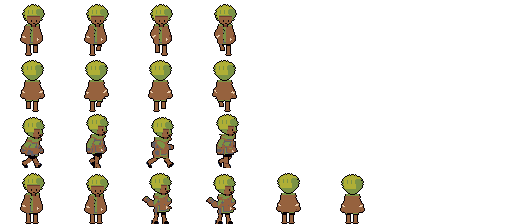
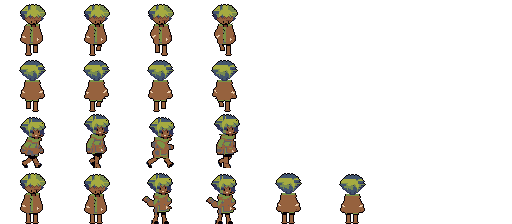
NPC: kepala bergaya MC (tekstur helai & bayangan rambut serta wajah diambil dari kepala MC)
Claude-Session: https://claude.ai/code/session_013SaXTJuwinpA9vu4txrWbT

diff --git a/tools/npc_heads.py b/tools/npc_heads.py
@@ -13,11 +13,25 @@ SKIN = {  # warna kulit (terang, bayangan)
 }
 # geometri kepala baru pada frame diam tiap arah (koordinat sel 64×56)
 GEO = {
-    'd': dict(cx=33.5, cy=17.0, rx=8.6, ry=8.6, chin=25, eyes=[(31, 21), (36, 21)], mouth=(34, 24), idle=(0, 0)),
-    's': dict(cx=32.5, cy=16.5, rx=8.4, ry=8.2, chin=24, eyes=[(37, 20)], mouth=(39, 23), idle=(0, 4)),
-    'u': dict(cx=32.5, cy=16.5, rx=8.6, ry=8.4, chin=24, eyes=[], mouth=None, idle=(0, 2)),
+    'd': dict(cx=33.0, cy=16.8, rx=10.2, ry=8.6, chin=25, eyes=[(31, 21), (36, 21)], mouth=(34, 24), idle=(0, 0)),
+    's': dict(cx=32.0, cy=16.5, rx=9.6, ry=8.4, chin=24, eyes=[(37, 20)], mouth=(39, 23), idle=(0, 4)),
+    'u': dict(cx=32.5, cy=16.5, rx=10.0, ry=8.4, chin=24, eyes=[], mouth=None, idle=(0, 2)),
 }
-HEAD_ROWS = (6, 25)   # baris kepala MC (frame diam)
+HEAD_ROWS = (6, 25)
+# ramp rambut gaya tokoh utama: terang, tengah (helai), bayangan, tergelap — bayangan agak kebiruan seperti rambut MC
+RAMP = {
+    'zaitun': ((166, 171, 64), (120, 139, 79), (67, 85, 109), (48, 52, 88)),
+    'coklat': ((150, 98, 62), (112, 59, 46), (84, 25, 32), (48, 52, 88)),
+    'oranye': ((207, 115, 69), (163, 41, 28), (84, 25, 32), (48, 52, 88)),
+    'merah': ((177, 39, 26), (163, 41, 28), (84, 25, 32), (48, 52, 88)),
+    'mawar': ((172, 74, 74), (145, 96, 80), (84, 25, 32), (48, 52, 88)),
+    'krem': ((237, 214, 187), (176, 172, 168), (98, 96, 104), (67, 85, 109)),
+    'abu': ((176, 172, 168), (145, 140, 140), (98, 96, 104), (67, 85, 109)),
+    'kulit': ((240, 194, 113), (207, 115, 69), (145, 96, 80), (84, 25, 32)),
+    'birutua': ((67, 85, 109), (45, 49, 97), (48, 52, 88), (6, 1, 5)),
+    'hitam': ((48, 52, 88), (45, 49, 97), (6, 1, 5), (6, 1, 5)),
+    'hijau': ((123, 147, 69), (120, 139, 79), (67, 85, 109), (48, 52, 88)),
+}   # baris kepala MC (frame diam)
 
 _A = np.array(Image.open(MC).convert('RGBA'))
 _IDLE = {}
@@ -45,7 +59,7 @@ def find_offset(a, facing):
 
 def ell(x, y, cx, cy, rx, ry):
     if y + 0.5 > cy:
-        rx *= 0.9
+        rx *= 1.0 - 0.28 * min(1.0, (y + 0.5 - cy) / ry * 1.4)
     return ((x + 0.5 - cx) / rx) ** 2 + ((y + 0.5 - cy) / ry) ** 2 <= 1.0
 
 
@@ -54,6 +68,8 @@ def build_head(o, facing):
     g = GEO[facing]
     cx, cy, rx, ry, chin = g['cx'], g['cy'], g['rx'], g['ry'], g['chin']
     hl, hd = (np.array((*c, 255), np.uint8) for c in o['_rambut'])
+    ramp = [np.array((*c, 255), np.uint8) for c in RAMP.get(o['rambut'][0], (o['_rambut'][0], o['_rambut'][1], (67, 85, 109), (48, 52, 88)))]
+    hl, hd = ramp[0], ramp[2]
     sk, sks = (np.array((*c, 255), np.uint8) for c in SKIN[o.get('kulit', 'terang')])
     st = o.get('gaya_rambut', 'poni')
     H, W = 56, 64
@@ -76,35 +92,37 @@ def build_head(o, facing):
         rel = (x + 0.5 - cx)
         edge = abs(rel) > rx - 2.2
         if st == 'poni':
-            return 23 if edge else 19
+            return 24 if edge else 20
         if st == 'belah':
-            return 23 if edge else int(16 + max(0.0, -rel) * 0.45)
+            return 24 if edge else int(17 + max(0.0, -rel) * 0.4)
         if st == 'cepak':
-            return 18 if edge else 14
+            return 19 if edge else 15
         if st == 'jabrik':
-            return 22 if edge else 18 + (int(x) % 3 == 0)
+            return 23 if edge else 19 + (int(x) % 3 == 0)
         if st in ('panjang', 'kuncir'):
-            return 24 if edge else (16 if abs(rel) < 1 else 18)
+            return 25 if edge else (17 if abs(rel) < 1 else 19)
         if st == 'sanggul':
-            return 21 if edge else 15
+            return 23 if edge else 18
         if st == 'keriting':
             return 22 if edge else 17
         if st == 'botak':
             return 20 if edge else 0
         return 19
+    def tooth(x):
+        return 0 if st in ('cepak', 'botak', 'sanggul') else (2 - abs(int(x) % 4 - 2))
     if facing == 'u':
         hair[:] = skull
         if st == 'botak':
             hair &= (yy > cy - 1)
     elif facing == 'd':
         for x in range(W):
-            hair[:, x] = skull[:, x] & (yy[:, x] < hairline(x))
+            hair[:, x] = skull[:, x] & (yy[:, x] < hairline(x) + tooth(x))
         if st == 'botak':
             hair &= (abs(xx + 0.5 - cx) > rx - 2.5) & (yy > cy - 2) & (yy < cy + 5)
     else:   # samping: rambut menutup belakang kepala; depan = wajah
         front = cx - 1.0
         for x in range(W):
-            hlx = hairline(x) if x + 0.5 > front else 99
+            hlx = hairline(x) + tooth(x) if x + 0.5 > front else 99
             hair[:, x] = skull[:, x] & (yy[:, x] < hlx)
         if st == 'botak':
             hair &= (xx + 0.5 < cx) & (yy > cy - 2) & (yy < cy + 5)
@@ -156,30 +174,41 @@ def build_head(o, facing):
     hair |= extra
     out = np.zeros((H, W, 4), np.uint8)
     face = skull & ~hair
+    # --- tekstur dipindah dari kepala MC: rambut memakai pola helai & bayangan MC, wajah memakai wajah MC ---
+    mc, _ = _IDLE[facing]
+    mrgb = mc[..., :3]; mal = mc[..., 3] > 0
+    meq = lambda c: (mrgb == c).all(-1) & mal
+    tone = np.full((H, W), -1, int)
+    for t, c in enumerate(((166, 171, 64), (120, 139, 79), (67, 85, 109), (48, 52, 88))):
+        tone[meq(c)] = t
+    tone[:HEAD_ROWS[0]] = -1
+    tone[chin + 1:] = -1
+    L0, L1, L2, L3 = ramp
+    tfull = tone.copy()
+    for y in range(H):
+        for x in range(W):
+            if tfull[y, x] < 0 and y < chin + 12:
+                yr = min(max(y, int(top_y) + 1), chin)
+                cand = [(abs(xx2 - x) + abs(yy2 - y) * 2, tone[yy2, xx2]) for yy2 in range(max(0, yr - 3), yr + 4)
+                        for xx2 in range(max(0, x - 6), min(W, x + 7)) if tone[yy2, xx2] >= 0]
+                tfull[y, x] = min(cand)[1] if cand else (0 if y < cy else 2)
+    for y, x in zip(*np.nonzero(hair)):
+        out[y, x] = ramp[max(0, tfull[y, x])]
+    msk = meq((233, 185, 110)); mks = meq((183, 115, 79))
     out[face] = sk
-    # bayangan wajah: di bawah rambut & sisi kanan
-    under = face & np.roll(hair, 1, 0)
-    out[under] = sks
-    if facing == 'd':
-        out[face & (xx + 0.5 > right - 1.5)] = sks
-    out[hair] = hl
-    hb = hair & ~np.roll(hair, -1, 0)                       # tepi bawah rambut
-    out[hb] = hd
-    shade = hair & (xx + 0.5 > cx + rx * 0.4) & (yy > top_y + 1)       # sisi kanan gelap (cahaya dari kiri atas)
-    out[shade] = hd
-    out[hair & (yy > cy + 3)] = hd
-    if st == 'cepak':
-        out[hair] = hd
-        out[hair & (yy < cy - 3) & (xx + 0.5 < cx + 2)] = hl
-    # helai rambut: garis pendek gelap di bagian terang
-    strands = hair & (yy > top_y + 2) & (yy < top_y + 6) & ((xx - int(cx) + 1) % 4 == 0) & ~shade
-    out[strands] = hd
+    out[face & mks] = sks
+    out[face & np.roll(hair, 1, 0)] = sks                     # bayangan tipis di bawah poni
+    eyes_mc = meq((6, 1, 5)) & face & np.roll(msk | mks, 1, 1) & np.roll(msk | mks, -1, 1)
+    out[face & meq((236, 206, 172))] = (236, 206, 172, 255)   # mulut MC
+    if o.get('mata', 'titik') == 'titik':
+        out[eyes_mc] = BLK
+    under = np.zeros_like(face)
     # wajah: mata, alis, mulut
     eyes_st = o.get('mata', 'titik')
     if facing != 'u':
         for ex, ey in g['eyes']:
             if eyes_st == 'titik':
-                out[ey:ey + 2, ex] = BLK
+                pass
             elif eyes_st == 'sipit':
                 out[ey + 1, ex - 1:ex + 1] = BLK
             elif eyes_st == 'bulat':
@@ -198,9 +227,11 @@ def build_head(o, facing):
         if facing == 'd' and eyes_st == 'kacamata':
             out[g['eyes'][0][1] - 1, g['eyes'][0][0] + 2:g['eyes'][1][0] - 1] = BLK
         mx, my = g['mouth']
-        mt = o.get('mulut', 'garis')
+        mt = o.get('mulut', 'mc')
         if mt == 'garis':
             out[my, mx - 1:mx + 1] = sks
+        elif mt == 'mc':
+            out[my, mx - 1:mx + 1] = (236, 206, 172, 255)
         elif mt == 'senyum':
             out[my, mx - 1:mx + 1] = BLK
         if o.get('pipi'):
@@ -256,8 +287,10 @@ def build_head(o, facing):
             else:
                 hole = np.zeros_like(big)
             m = big & ~hole
-            out[m] = col
-            out[m & ((xx + 0.5 > cx + rx * 0.4) | (yy > cy + 3))] = dark
+            hr = [col, np.array((*(col[:3] * 0.86).astype(np.uint8), 255), np.uint8), dark,
+                  np.array((*(col[:3] * 0.5).astype(np.uint8), 255), np.uint8)]
+            for y, x in zip(*np.nonzero(m)):
+                out[y, x] = hr[max(0, tfull[y, x])]
             if facing != 'u':
                 rim = m & nb4(hole)
                 out[rim] = dark
@@ -271,6 +304,9 @@ def build_head(o, facing):
     solid = out[..., 3] > 0
     ring = nb4(solid) & ~solid
     out[ring] = BLK
+    if not hat and st != 'botak':
+        hair_ring = ring & nb4(hair) & (yy > cy + 1) & ~nb4(face)
+        out[hair_ring] = ramp[3] if ramp[3][:3].sum() > 30 else BLK
     return out
 
 
